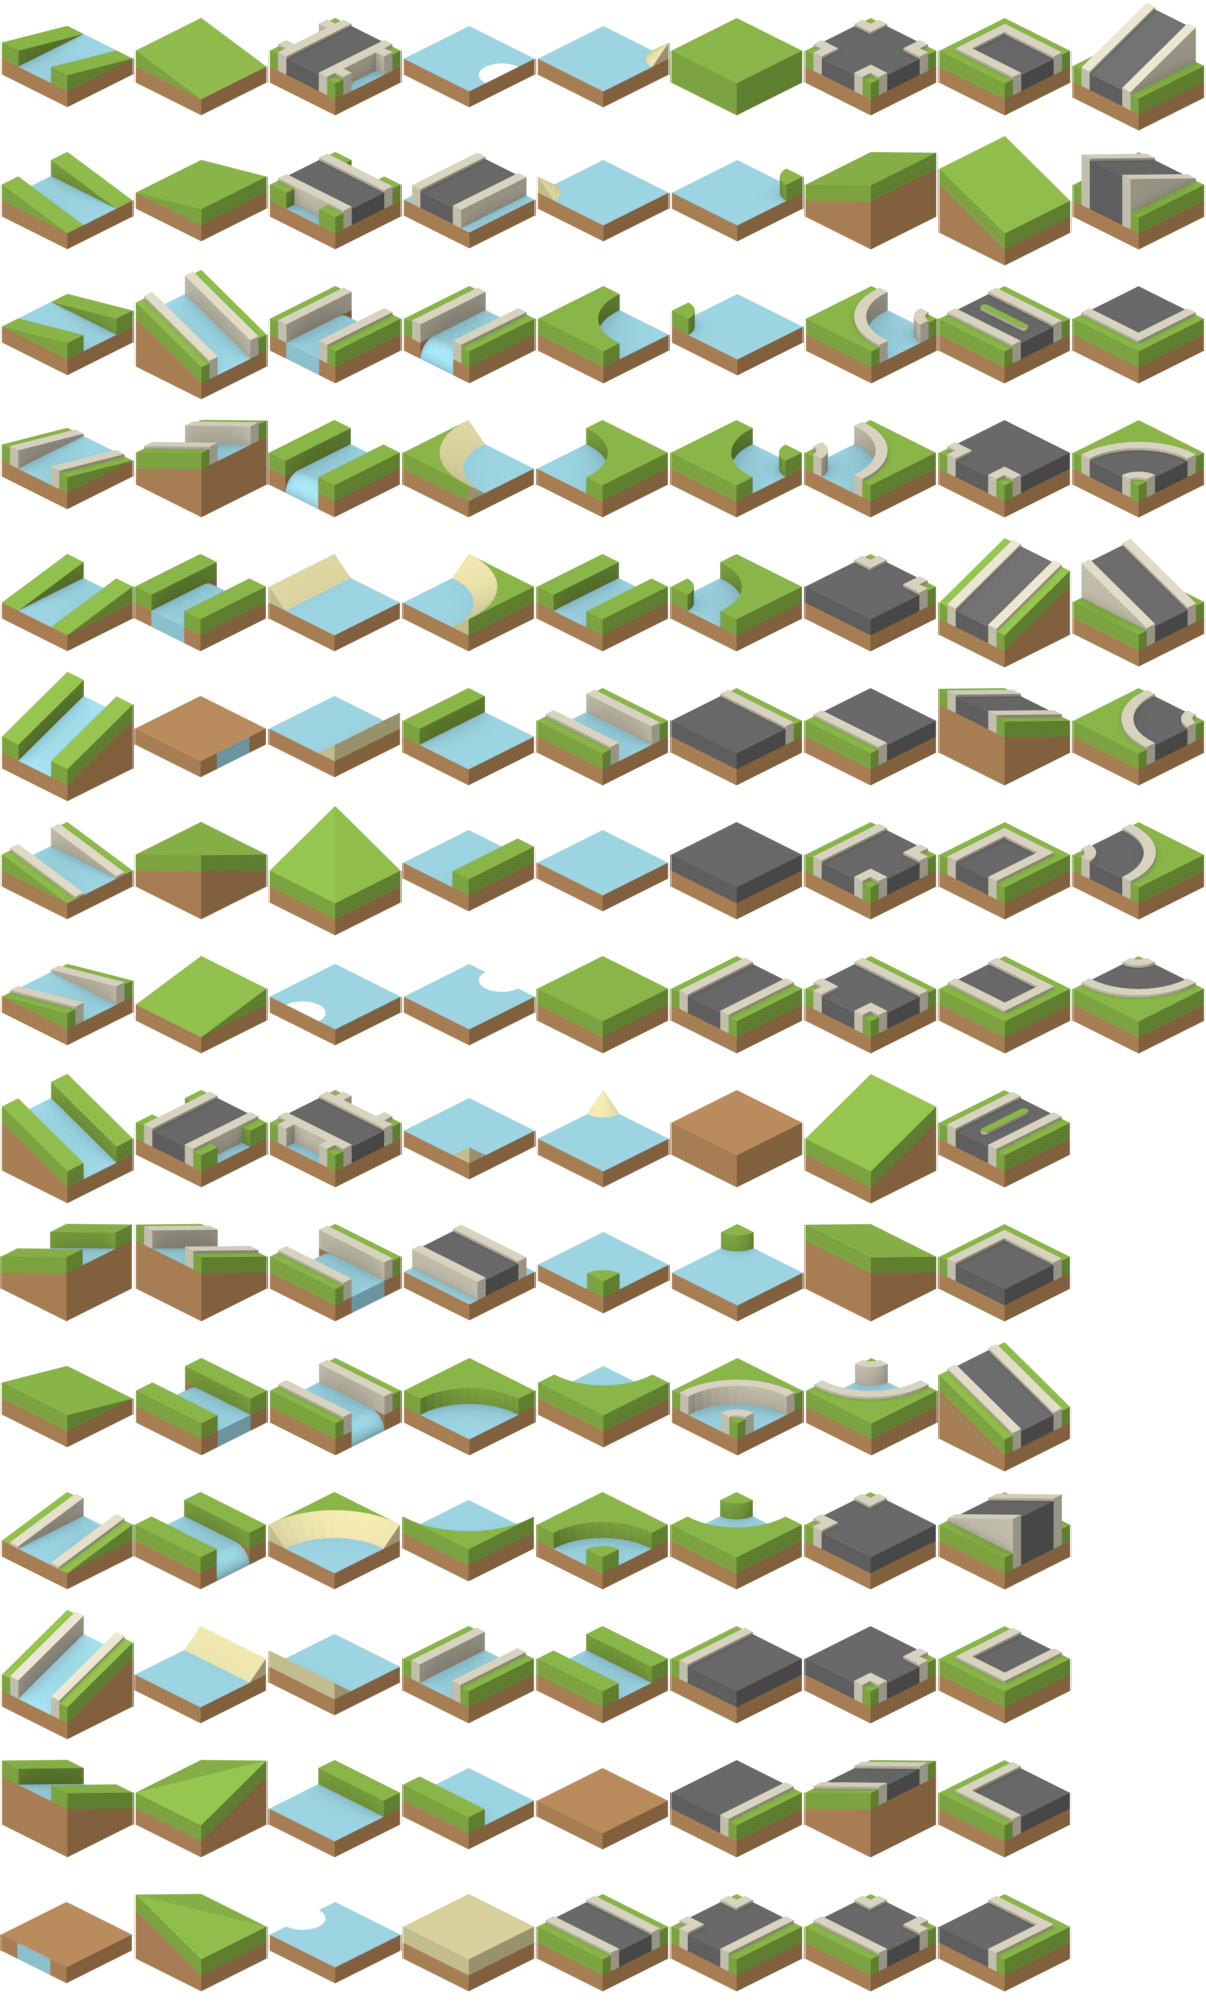
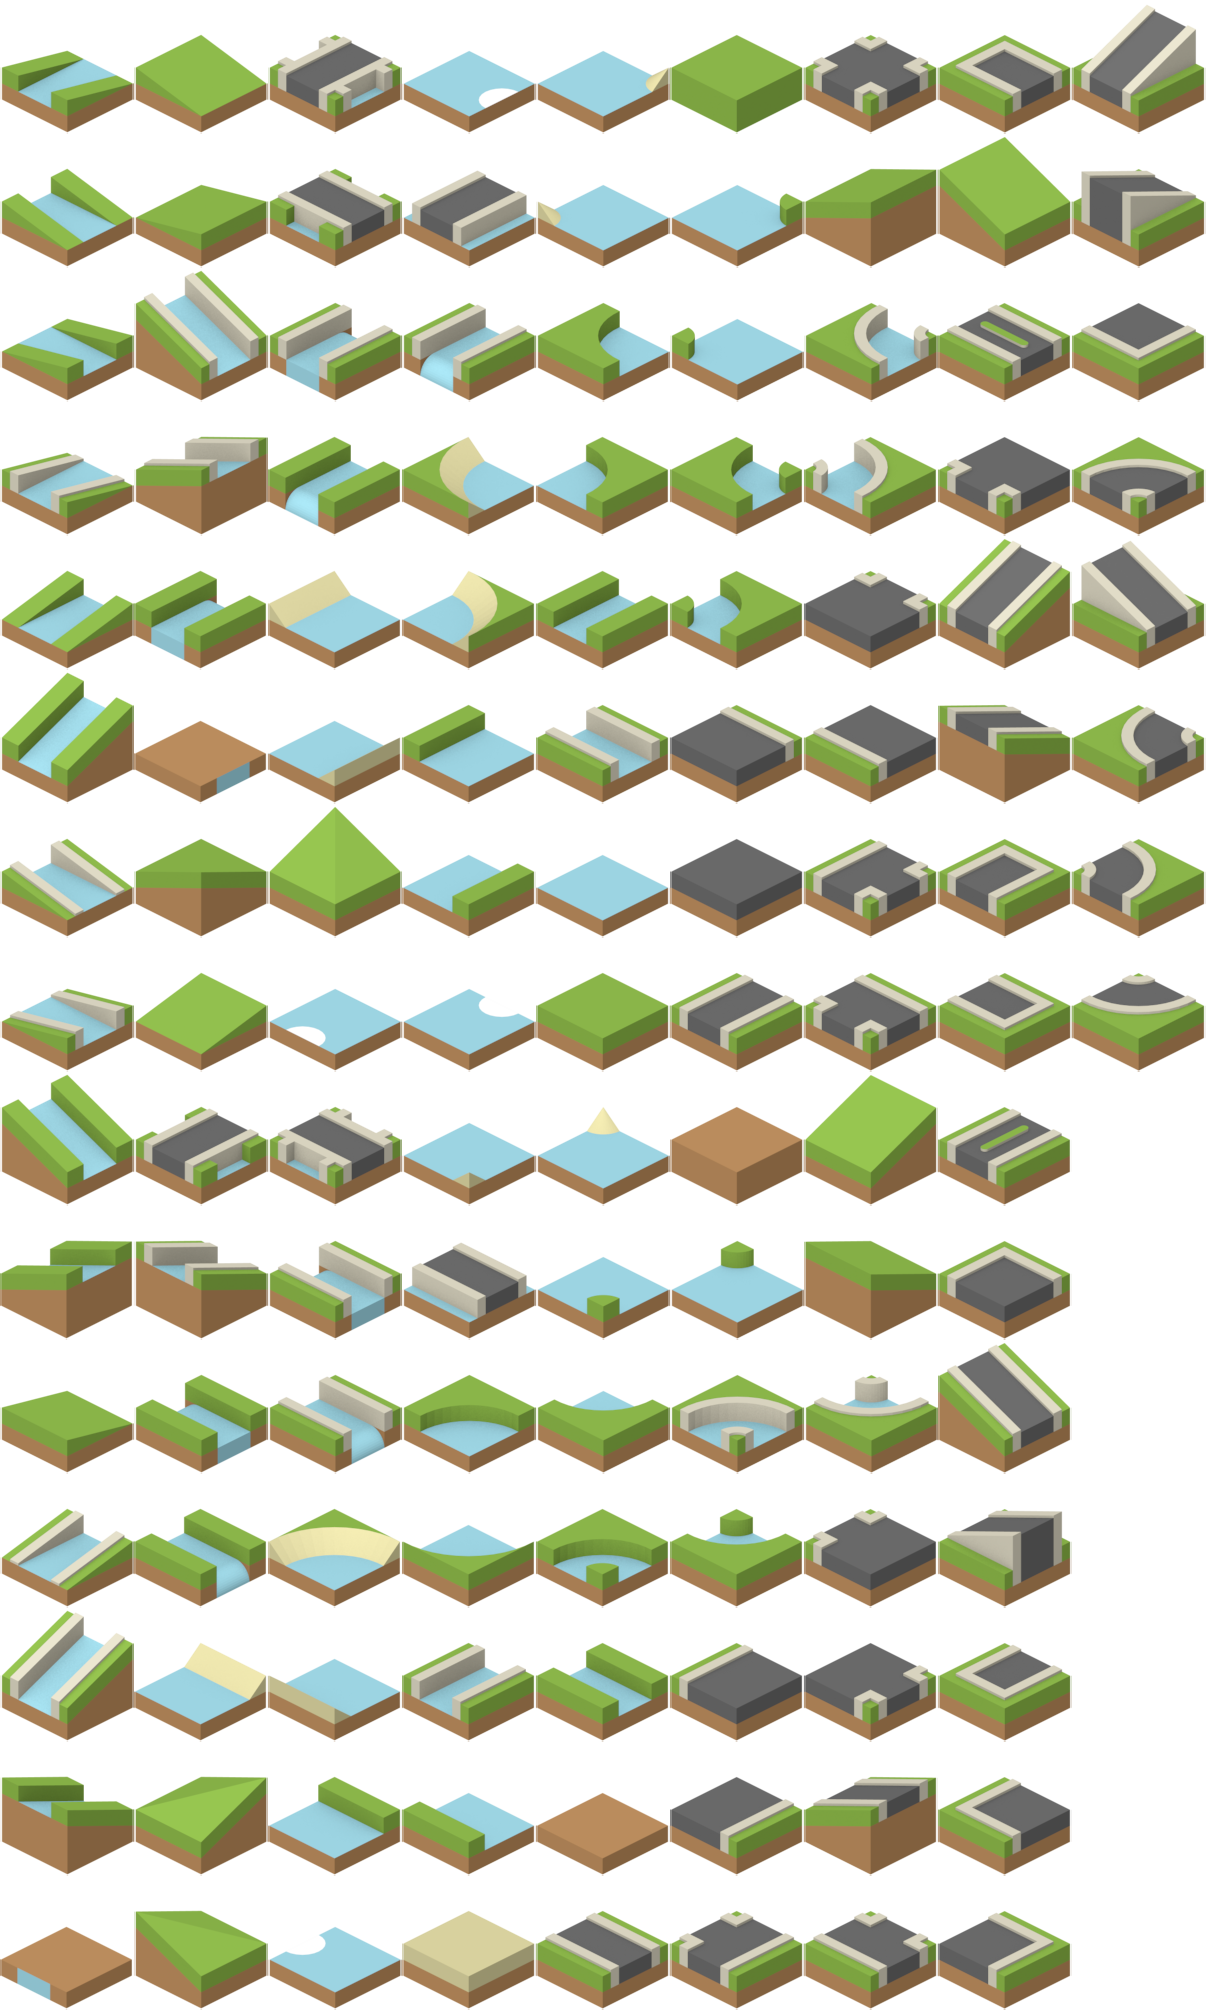
move sprites to bottom of tiles instead of middle, failed to make the clicking more accurate though

diff --git a/Classes/HarvestScene.cpp b/Classes/HarvestScene.cpp
@@ -153,8 +153,8 @@ void BaseScene::onKeyReleased(EventKeyboard::KeyCode keyCode, Event* event)
                        auto dispatcher = Director::getInstance()->getEventDispatcher();
                        auto listener = EventListenerTouchOneByOne::create();
                        listener->onTouchBegan = [layer, pos, this, tile, map](Touch* touch, Event* event){
-                           auto sprite = tile;
-                           Point pt = touch->getLocation();
+                           auto sprite = event->getCurrentTarget();
+                           Point pt = this->convertToNodeSpace(touch->getLocation());
                            Rect recTemp = sprite->getBoundingBox();
                            recTemp.size.width*=map->getScaleX();
                            recTemp.size.height*=map->getScaleY();
@@ -162,7 +162,7 @@ void BaseScene::onKeyReleased(EventKeyboard::KeyCode keyCode, Event* event)
                            recTemp.origin.y += map->getPositionY();
                            if (recTemp.containsPoint(pt)) {
                                //TOUCHED
-                               layer->setTileGID(2, pos);
+                               layer->setTileGID(58, pos);
                                log_vector(pos, "touched");
 
                            }

diff --git a/python/spriter/make_spritesheet.py b/python/spriter/make_spritesheet.py
@@ -21,9 +21,10 @@ for img_path in glob.glob("spritesheet_in/*png"):
     background = Image.new('RGBA', OUTPUT_SIZE, WHITE)
     bg_w, bg_h = background.size
 
-    offset = ((bg_w - img_w) / 2, (bg_h - img_h) / 2)
+    offset = ((bg_w - img_w) / 2, bg_w-img_h)
     background.paste(img, offset)
 
     out_path = "spritesheet_out\\"+img_path.name
-    print out_path
     background.save(out_path)
+
+print "Done"
